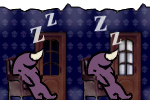
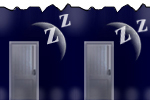
Añadido imagenes inWork. Arreglado panel de login.

diff --git a/war/css/lair_styles.css b/war/css/lair_styles.css
@@ -5,43 +5,43 @@
 .MainMonster_BIG 			{ background-image: url(../images/buildings/eyeOfTheLife_BIG.jpg); }
 .Warehouse					{ background-image: url(../images/buildings/warehouse.jpg); }
 .Warehouse_BIG 				{ background-image: url(../images/buildings/warehouse_BIG.jpg); }
-.Warehouse.roomInWorks      { background-image: url(../images/buildings/eyeOfTheLife.jpg); }
+.Warehouse.roomInWorks      { background-image: url(../images/buildings/warehouse_inWorks.jpg); }
 .TradeOffice 				{ background-image: url(../images/buildings/tradeOffice.jpg); }
 .TradeOffice_BIG 			{ background-image: url(../images/buildings/tradeOffice_BIG.jpg); }
-.TradeOffice.roomInWorks      { background-image: url(../images/buildings/eyeOfTheLife.jpg); }
+.TradeOffice.roomInWorks      { background-image: url(../images/buildings/tradeOffice_inWorks.jpg); }
 .TruffleFarm 				{ background-image: url(../images/buildings/truffleFarm.jpg); }
 .TruffleFarm_BIG 			{ background-image: url(../images/buildings/truffleFarm_BIG.jpg); }
-.TruffleFarm.roomInWorks      { background-image: url(../images/buildings/eyeOfTheLife.jpg); }
+.TruffleFarm.roomInWorks      { background-image: url(../images/buildings/truffleFarm_inWorks.jpg); }
 .Dormitories 				{ background-image: url(../images/buildings/dormitories.jpg); }
 .Dormitories_BIG 			{ background-image: url(../images/buildings/dormitories_BIG.jpg); }
-.Dormitories.roomInWorks      { background-image: url(../images/buildings/eyeOfTheLife.jpg); }
+.Dormitories.roomInWorks      { background-image: url(../images/buildings/dormitories_inWorks.jpg); }
 .MetalLeisureRoom 			{ background-image: url(../images/buildings/metalLeisureRoom.jpg); }
 .MetalLeisureRoom_BIG 		{ background-image: url(../images/buildings/metalLeisureRoom_BIG.jpg); }
-.MetalLeisure.roomInWorks      { background-image: url(../images/buildings/eyeOfTheLife.jpg); }
+.MetalLeisure.roomInWorks      { background-image: url(../images/buildings/metalLeisureRoom_inWorks.jpg); }
 .ChillOutLeisureRoom 		{ background-image: url(../images/buildings/chillOutLeisureRoom.jpg); }
 .ChillOutLeisureRoom_BIG 	{ background-image: url(../images/buildings/chillOutLeisureRoom_BIG.jpg); }
-.ChillOut.roomInWorks      { background-image: url(../images/buildings/eyeOfTheLife.jpg); }
+.ChillOutLeisureRoom.roomInWorks      { background-image: url(../images/buildings/chillOutLeisureRoom_inWorks.jpg); }
 .TechnoLeisureRoom 			{ background-image: url(../images/buildings/technoLeisureRoom.jpg); }
 .TechnoLeisureRoom_BIG 		{ background-image: url(../images/buildings/technoLeisureRoom_BIG.jpg); }
-.TechnoLeisure.roomInWorks      { background-image: url(../images/buildings/eyeOfTheLife.jpg); }
+.TechnoLeisure.roomInWorks      { background-image: url(../images/buildings/technoLeisureRoom_inWorks.jpg); }
 .ReggaetonLeisureRoom 		{ background-image: url(../images/buildings/reggaetonLeisureRoom.jpg); }
 .ReggaetonLeisureRoom_BIG 	{ background-image: url(../images/buildings/reggaetonLeisureRoom_BIG.jpg); }
-.Reggaeton.roomInWorks      { background-image: url(../images/buildings/eyeOfTheLife.jpg); }
+.ReggaetonLeisureRoom.roomInWorks      { background-image: url(../images/buildings/reggaetonLeisureRoom_inWorks.jpg); }
 .IndieRockLeisureRoom 		{ background-image: url(../images/buildings/indieRockLeisureRoom.jpg); }
 .IndieRockLeisureRoom_BIG 	{ background-image: url(../images/buildings/indieRockLeisureRoom_BIG.jpg); }
-.IndieRock.roomInWorks      { background-image: url(../images/buildings/eyeOfTheLife.jpg); }
+.IndieRockLeisureRoom.roomInWorks      { background-image: url(../images/buildings/indieRockLeisureRoom_inWorks.jpg); }
 .Gym 						{ background-image: url(../images/buildings/gym.jpg); }
 .Gym_BIG 					{ background-image: url(../images/buildings/gym_BIG.jpg); }
-.Gym.roomInWorks      { background-image: url(../images/buildings/eyeOfTheLife.jpg); }
+.Gym.roomInWorks      { background-image: url(../images/buildings/gym_inWorks.jpg); }
 .Classroom 					{ background-image: url(../images/buildings/classroom.jpg); }
 .Classroom_BIG 				{ background-image: url(../images/buildings/classroom_BIG.jpg); }
-.Classroom.roomInWorks      { background-image: url(../images/buildings/eyeOfTheLife.jpg); }
+.Classroom.roomInWorks      { background-image: url(../images/buildings/classroom_inWorks.jpg); }
 .TrainingRoom 				{ background-image: url(../images/buildings/trainingRoom.jpg); }
 .TrainingRoom_BIG 			{ background-image: url(../images/buildings/trainingRoom_BIG.jpg); }
-.TrainingRoom.roomInWorks      { background-image: url(../images/buildings/eyeOfTheLife.jpg); }
+.TrainingRoom.roomInWorks      { background-image: url(../images/buildings/trainingRoom_inWorks.jpg); }
 .Nursery 					{ background-image: url(../images/buildings/nursery.jpg); } 
 .Nursery_BIG 				{ background-image: url(../images/buildings/nursery_BIG.jpg);}
-.Nursery.roomInWorks      { background-image: url(../images/buildings/eyeOfTheLife.jpg); }
+.Nursery.roomInWorks      { background-image: url(../images/buildings/nursery_inWorks.jpg); }
 .emptyLair 					{ background-image: url(../images/buildings/emptyLair.jpg); }
 .elevator 					{ background-image: url(../images/buildings/elevator.jpg); }
 

diff --git a/war/css/front_page.css b/war/css/front_page.css
@@ -125,7 +125,7 @@
 
 #loginWelcome{
     width: 770px;
-    padding: 0;
+    padding: 5px;
 }
 
 #loginWelcome .message{
